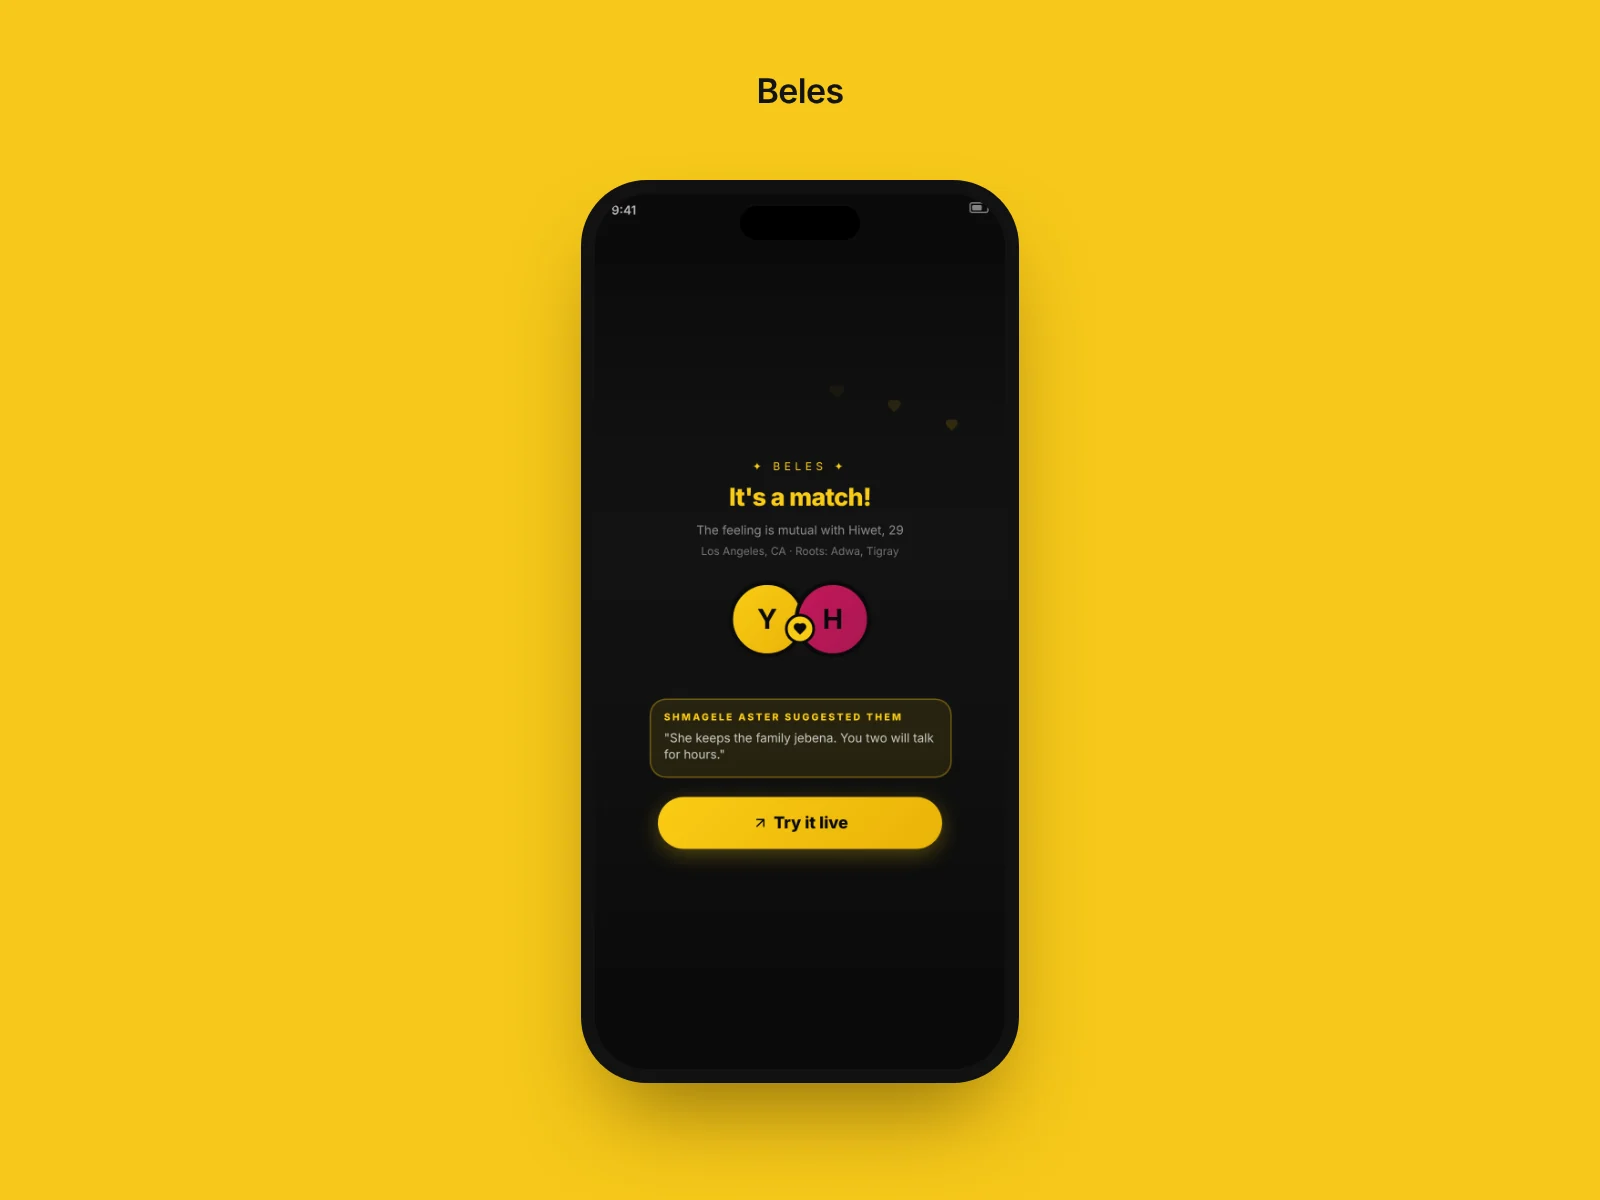
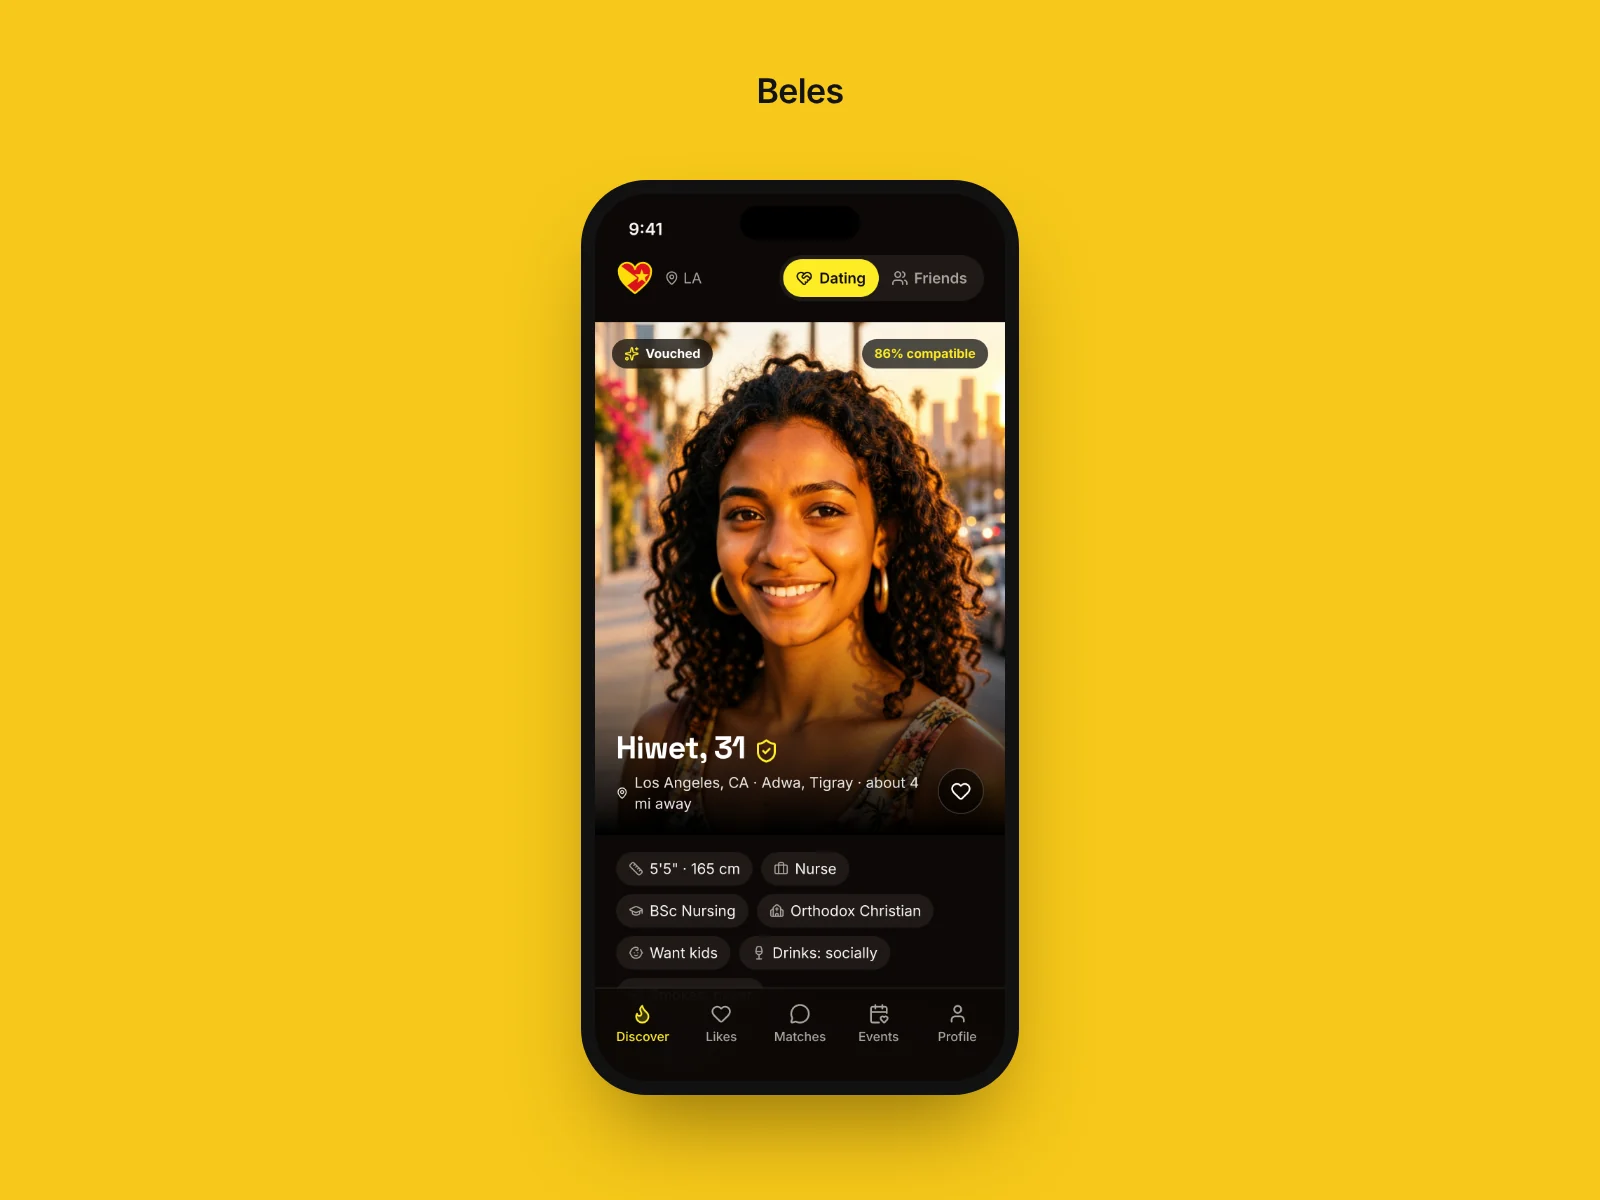
Beles card: real Discover screen, App Store tag
The Beles cover now shows the app's actual Discover screen (a shipped demo
profile, vouched and compatibility badges, mode toggle, tab bar) rendered
from the beles-love-connect components, instead of the portfolio's match
mockup. Tag updated now that Beles is live on the App Store.

Claude-Session: https://claude.ai/code/session_016TGWPqJJqixcUHZXUcPYCP

diff --git a/src/lib/projects.ts b/src/lib/projects.ts
@@ -390,7 +390,7 @@ export const projects: Project[] = [
     id: "beles",
     cardImage: "/images/beles/card.webp",
     client: "Independent",
-    cardTags: ["Live web app", "User research", "Mobile"],
+    cardTags: ["Live on the App Store", "User research", "Mobile"],
     title: "Beles",
     seoDescription: "Culturally rooted dating and community app for the Tigrayan diaspora, blending traditional matchmaking with modern UX.",
     description: "A dating and community app for the Tigrayan diaspora. The hard problem was making traditional matchmaking (Shmagele) legible inside a modern app without flattening it, and serving people who wanted community more than dates.",
